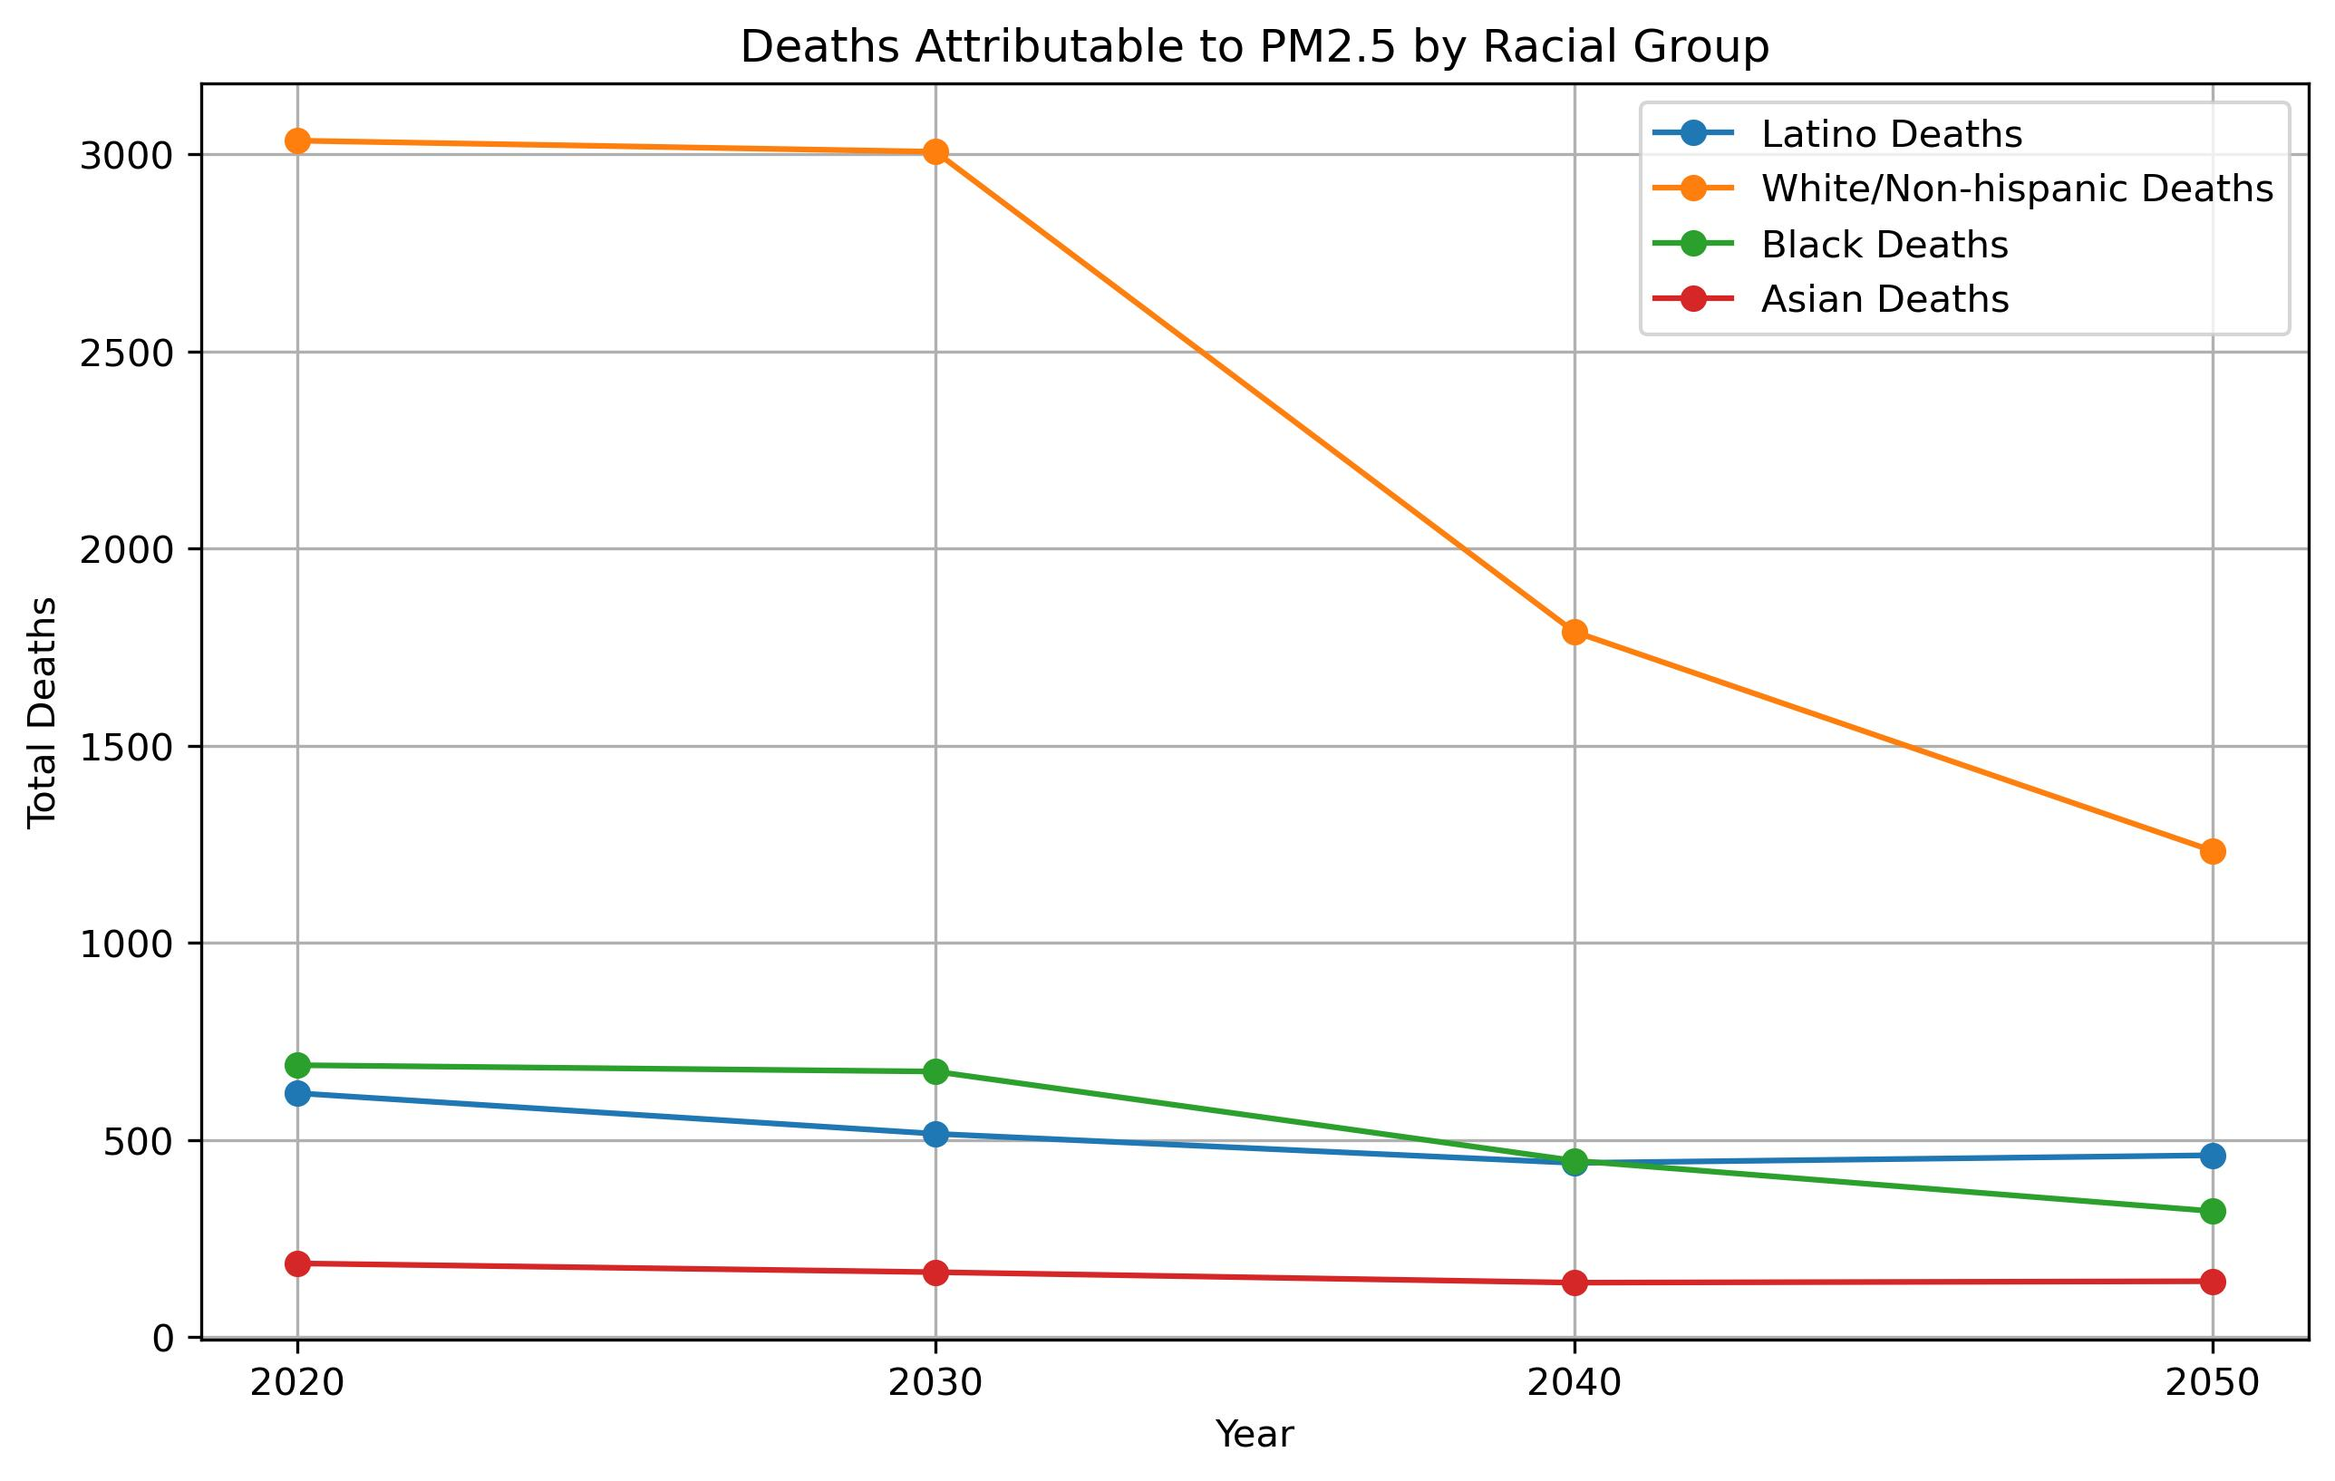
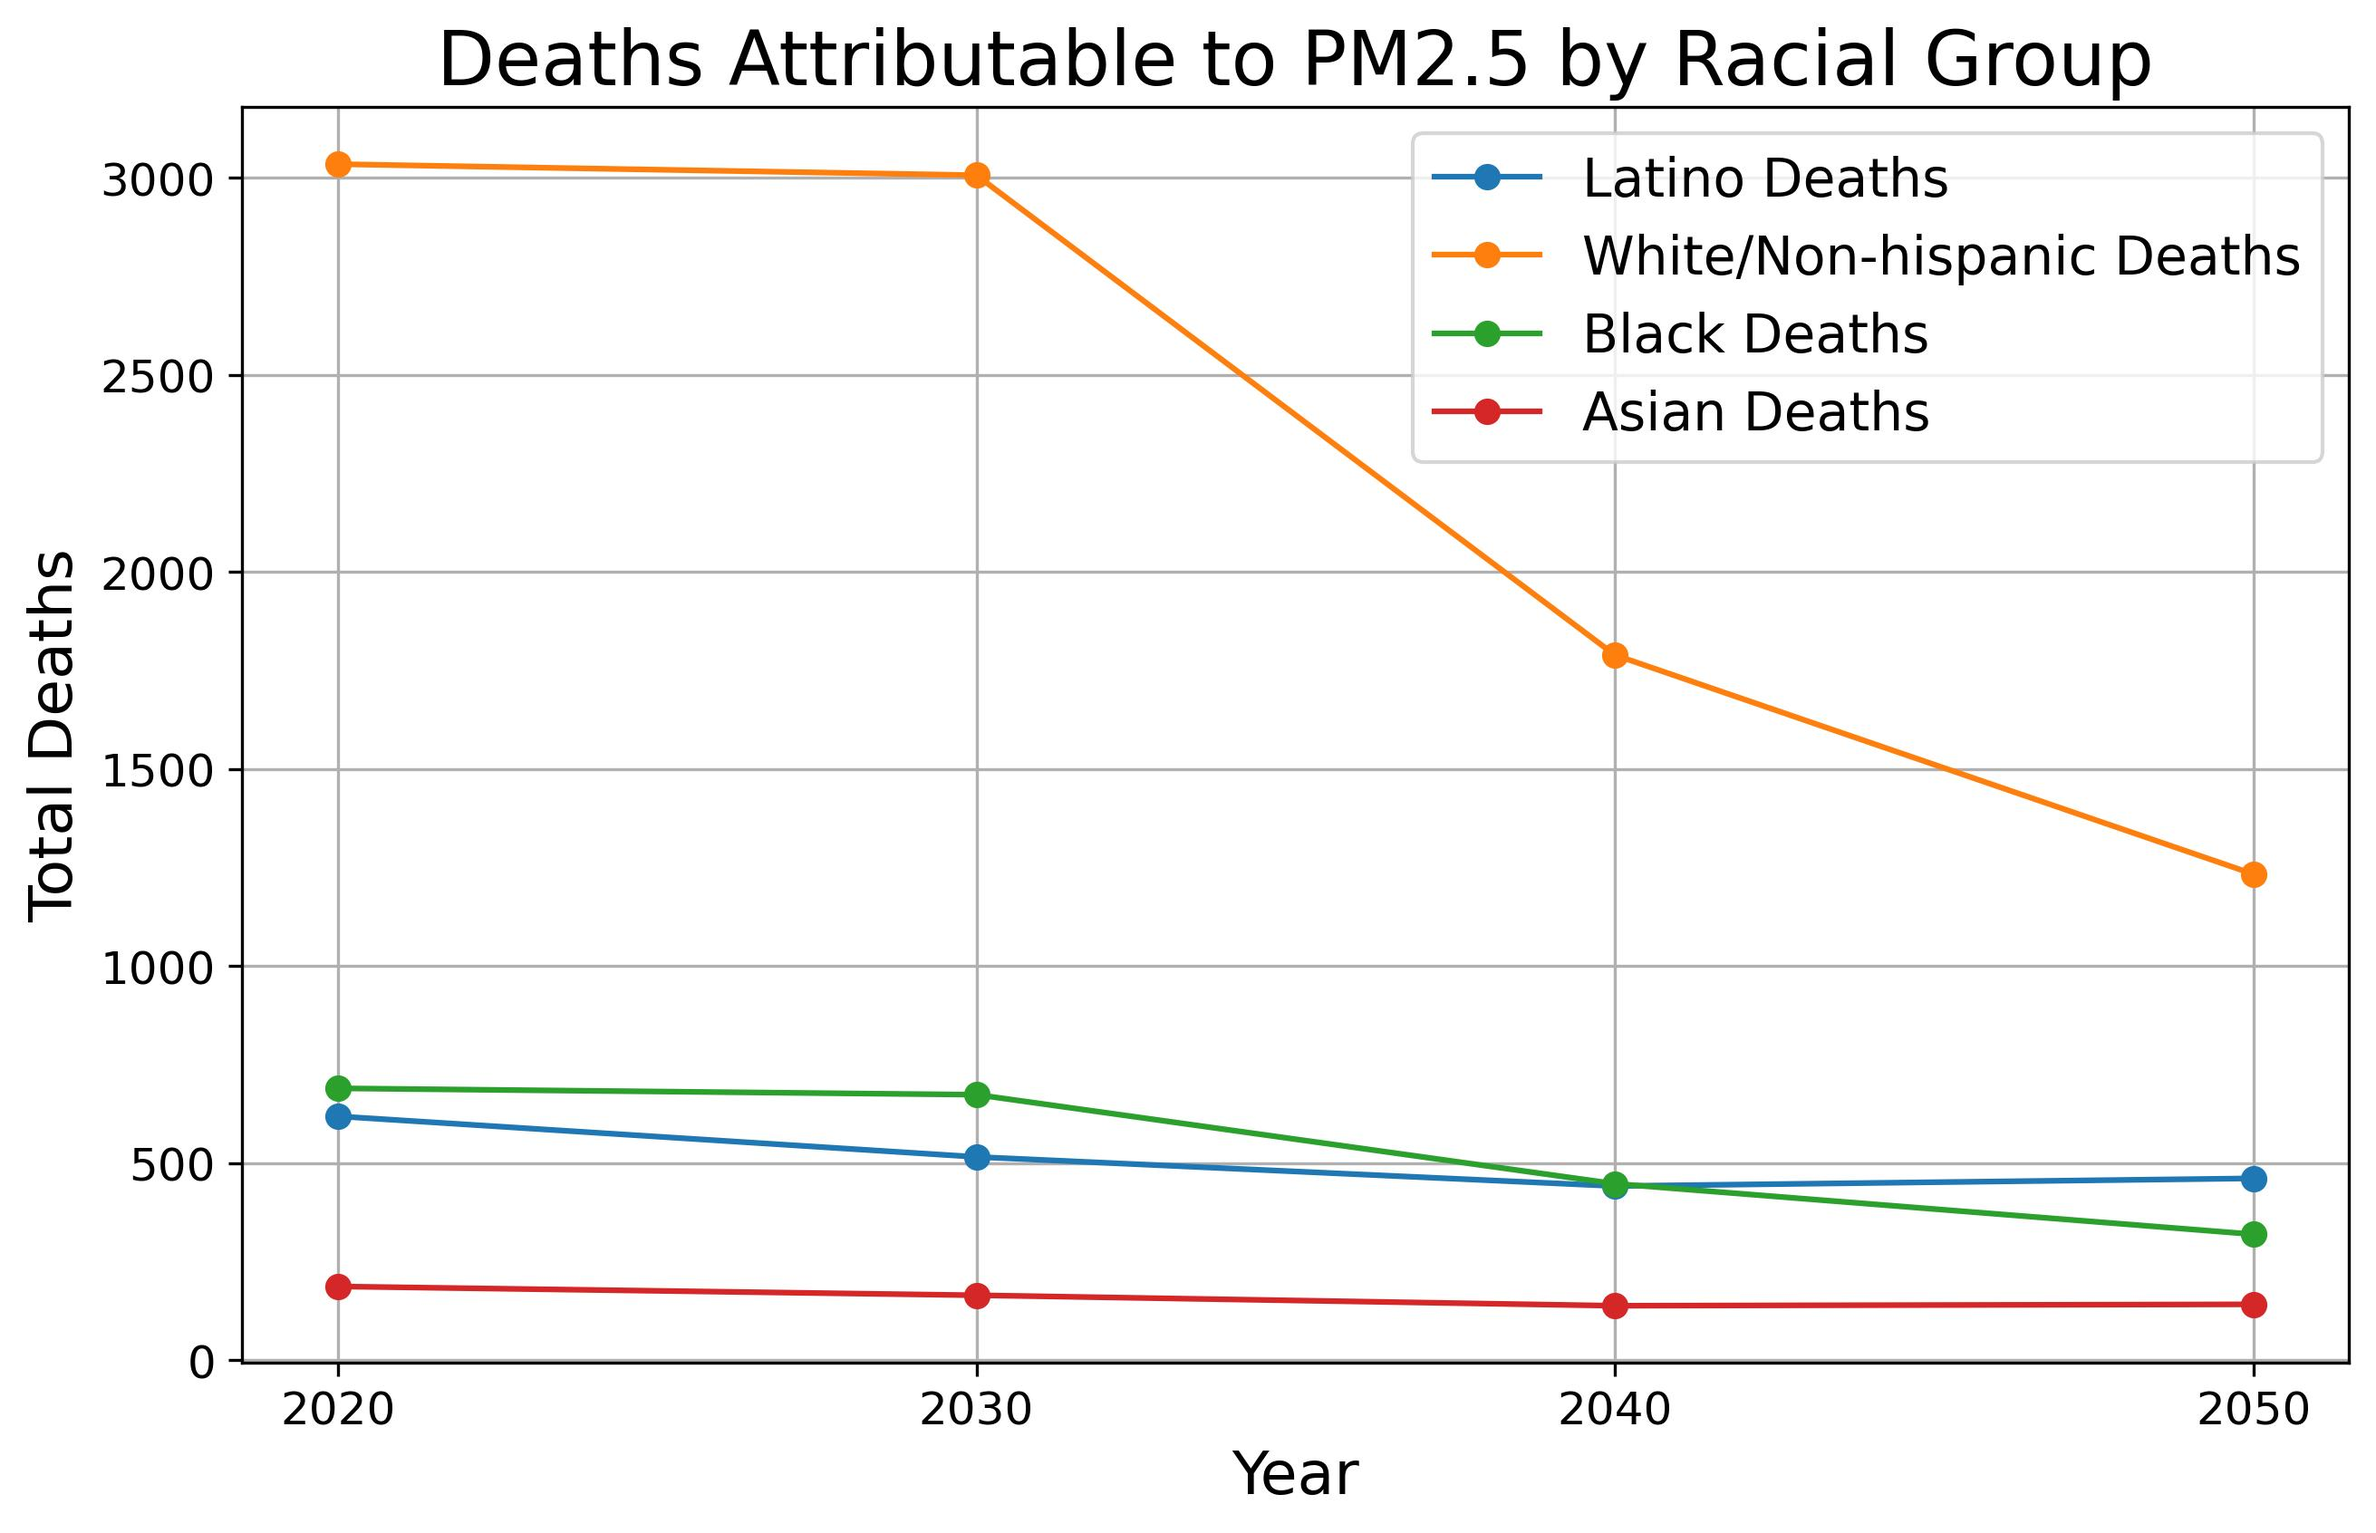
make figure text bigger

diff --git a/Plot_Output_ISRM.py b/Plot_Output_ISRM.py
@@ -55,10 +55,11 @@ emissions = emissions[emissions['intersects']==True]
 columns_to_plot = ['TotalPM25']
 quant_dict={}
 
+#%%
 print('making concentration plots')
 for scenario in scenarios:
     for year in years:
-        print('deaths: '+scenario+year)
+        print('concentration: '+scenario+year)
 
         emissions_temp = emissions[emissions['year']==year]
         emissions_temp = emissions_temp[emissions_temp['scenario']==scenario]
@@ -82,7 +83,8 @@ for scenario in scenarios:
             sm = plt.cm.ScalarMappable(cmap='OrRd', norm=plt.Normalize(vmin=0, vmax=quant_dict[column]))
             sm._A = []  # Fake empty array for the colorbar
             cbar = fig.colorbar(sm, fraction=0.03)  
-            cbar.set_label(column+' concentration (μg m$^{-3}$)')  # Set color bar label
+            cbar.set_label(column+' concentration (μg m$^{-3}$)', fontsize=18)  # Set color bar label
+            cbar.ax.tick_params(labelsize=14)
 
             plt.axis('off')
             plt.savefig('MIP_AirPollution/Figures/Output/' + scenario + '/' + model + '/ISRM_' +year+'_'+ column + '_concentrationmap.jpg', format='jpg',
@@ -90,6 +92,7 @@ for scenario in scenarios:
             plt.savefig('MIP_results_comparison/'+scenario+'/AirPollution/ISRM_'+year+'_'+ column + '_concentrationmap.jpg', format='jpg',
                         dpi=300, bbox_inches='tight')
 
+#%%
 print('making death plots')
 deaths = pd.DataFrame(emissions[['Asiandeath', 'Blackdeath', 'Latinodeat', 'Nativedeat', 'WhiteNoL_1', 'year', 'scenario']])
 deaths = deaths.groupby(['scenario','year']).sum().reset_index()
@@ -106,10 +109,13 @@ for scenario in scenarios:
     plt.plot(deaths_temp['year'], deaths_temp['Asiandeath'], marker='o', label='Asian Deaths')
 
     # Add labels and title
-    plt.xlabel('Year')
-    plt.ylabel('Total Deaths')
-    plt.title('Deaths Attributable to PM2.5 by Racial Group')
-    plt.legend()
+    plt.xlabel('Year', fontsize=16)
+    plt.ylabel('Total Deaths', fontsize=16)
+    plt.title('Deaths Attributable to PM2.5 by Racial Group', fontsize=20)
+    plt.legend(fontsize=14)
+
+    plt.xticks(fontsize=12)
+    plt.yticks(fontsize=12)
 
     # Show plot
     plt.grid(True)
@@ -143,10 +149,12 @@ for scenario in scenarios:
     plt.plot(deaths_temp['year'], deaths_temp['Nativerate'], marker='o', label='Native Death Rate')
 
     # Add labels and title
-    plt.xlabel('Year')
-    plt.ylabel('Death Rate')
-    plt.title('Death Rate Attributable to PM2.5 by Racial Group')
-    plt.legend()
+    plt.xlabel('Year', fontsize=16)
+    plt.ylabel('Death Rate', fontsize=16)
+    plt.title('Death Rate Attributable to PM2.5 by Racial Group', fontsize=20)
+    plt.legend(fontsize=14)
+    plt.xticks(fontsize=12)
+    plt.yticks(fontsize=12)
 
     # Show plot
     plt.grid(True)
@@ -155,29 +163,42 @@ for scenario in scenarios:
                 dpi=300, bbox_inches='tight')
 
 
+#%%
 ## plot death rates across scenario
 for year in years:
     
     deaths_temp = death_rates[death_rates['year']==year]
 
-    bar_width = 0.35
-    space_between_groups= 2
-    index = np.arange(len(deaths_temp)) * (bar_width * 5 + space_between_groups)
-    plt.figure(figsize=(10, 6))
+    if year=='2030':
+        cut = deaths_temp[['Asianrate', 'Blackrate', 'Latinorate', 'WhiteNoLatrate', 'Nativerate']].max().max()
+        cut = cut*1.06
+
+
+    bar_width = 0.7
+    space_between_groups= 5
+    index = np.arange(len(deaths_temp)) * (bar_width + space_between_groups)
+    plt.figure(figsize=(9, 6))
 
     plt.bar(index, deaths_temp['Asianrate'], bar_width, label='Asian Death Rate', color='blue', alpha=0.7)
     plt.bar(index + bar_width, deaths_temp['Blackrate'], bar_width, label='Black Death Rate', color='green', alpha=0.7)
     plt.bar(index + 2*bar_width, deaths_temp['Latinorate'], bar_width, label='Latino Death Rate', color='red', alpha=0.7)
     plt.bar(index + 3*bar_width, deaths_temp['WhiteNoLatrate'], bar_width, label='White Death Rate', color='yellow', alpha=0.7)
     plt.bar(index + 4*bar_width, deaths_temp['Nativerate'], bar_width, label='Native Death Rate', color='purple', alpha=0.7)
+    
+    plt.ylim(0, cut)
 
 
-    plt.title('Death Rates by Scenario')
-    plt.xlabel('Scenario')
-    plt.ylabel('Death Rate')
-    plt.xticks(index + 4*bar_width/2, deaths_temp.scenario)
-    plt.legend()
+    plt.title('Death Rates by Scenario', fontsize=24)
+    plt.xlabel('Scenario', fontsize=19)
+    plt.ylabel('Death Rate', fontsize=19)
+    plt.xticks(index + 4*bar_width/2, deaths_temp.scenario, fontsize=11)
+    plt.legend(fontsize=11)
+    plt.yticks(fontsize=11)
+
+
 
     plt.savefig('MIP_AirPollution/Figures/Output/ISRM_deathrate_by_scenario_'+year+'.jpg', format='jpg',dpi=300, bbox_inches='tight')
     plt.savefig('MIP_results_comparison/AirPollution/ISRM_deathrate_by_scenario_'+year+'.jpg', format='jpg',
                 dpi=300, bbox_inches='tight')
+
+# %%

diff --git a/InMap_SR_GenConstraints.py b/InMap_SR_GenConstraints.py
@@ -51,7 +51,6 @@ p = poly(sr)
 
 #%%
 years = ['2030', '2040', '2050']
-cluster_exposure_coefs = pd.DataFrame()
 
 for year in years:
     emis = gpd.read_file('InMap/MIP_Emissions/marginal_emissions_'+year+'.shp')
@@ -124,6 +123,7 @@ for year in years:
     exposure_data_collapsed = exposure_data.groupby(['Race', 'Cluster','Pollutant']).agg({'Exposure':'sum'}).reset_index()
     exposure_data_collapsed['year']=year
 
-    cluster_exposure_coefs = pd.concat([cluster_exposure_coefs, exposure_data_collapsed])
+    exposure_data_collapsed.to_csv('MIP_AirPollution/marginal_gen_exposure_coefs_'+year+'.csv')
 
-cluster_exposure_coefs.to_csv('MIP_AirPollution/marginal_gen_exposure_coefs.csv')
+
+# %%
